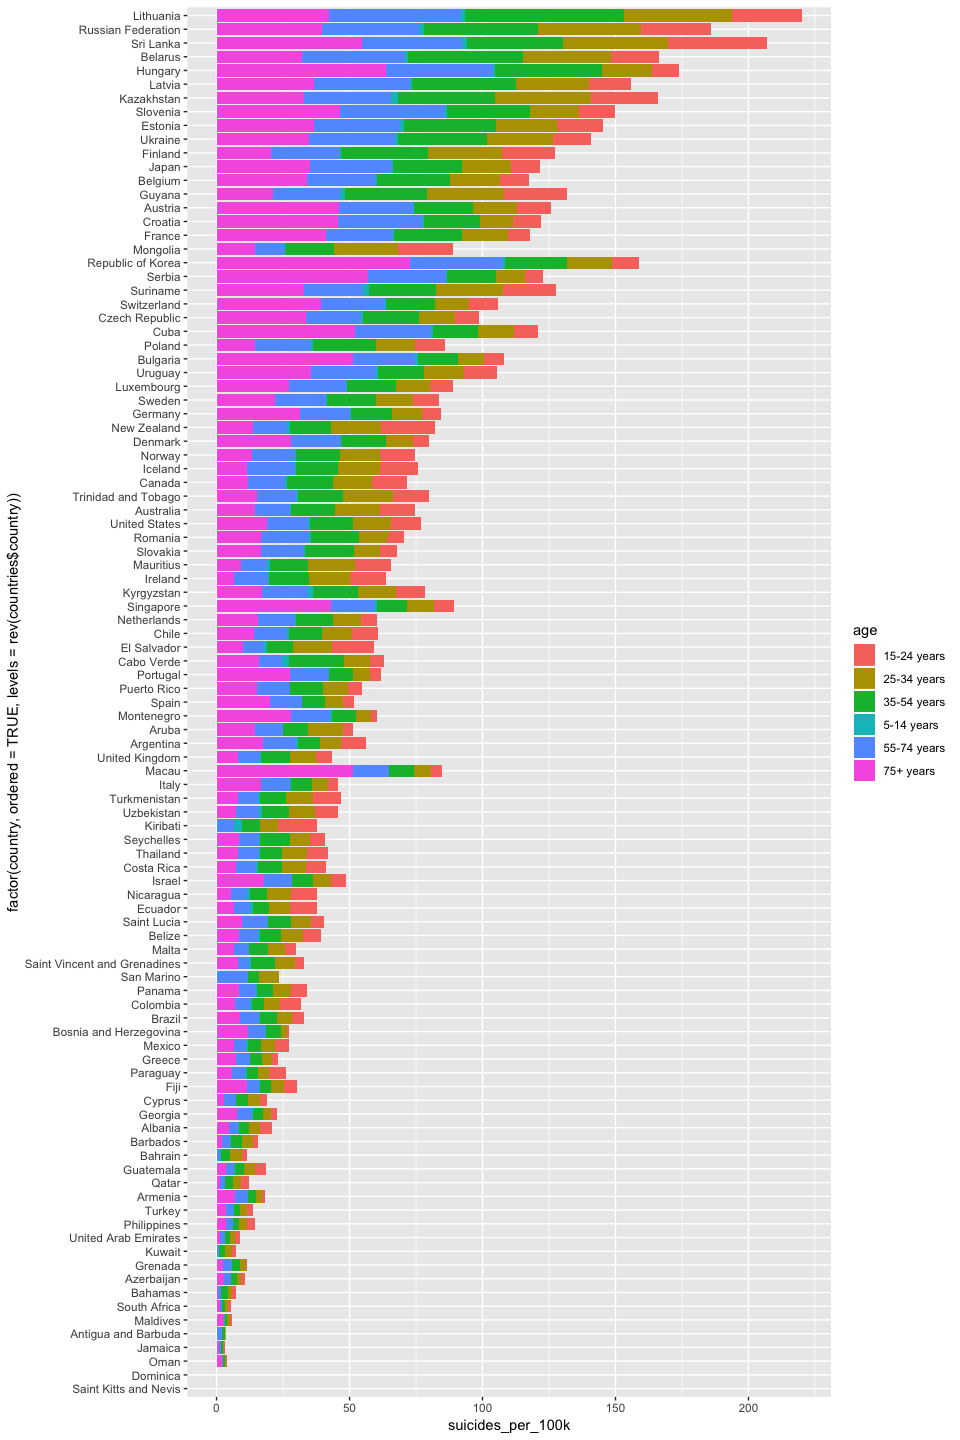
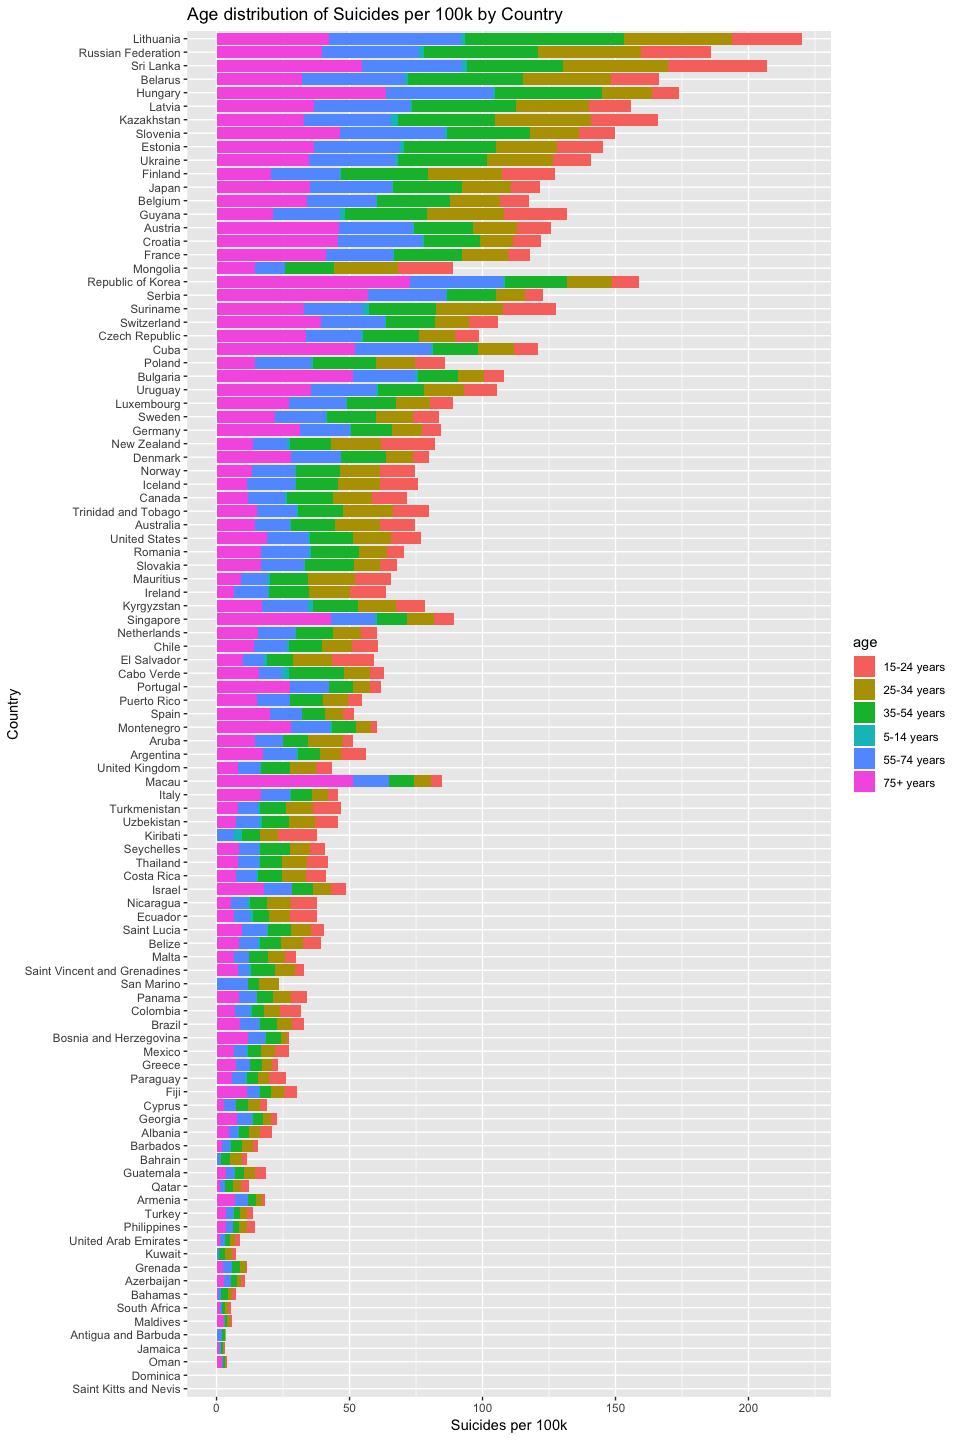
added linear regression analysis

diff --git a/tutorial.md b/tutorial.md
@@ -269,9 +269,60 @@ age_country <- df %>%
 age_country_plot <- age_country %>%
   ggplot(aes(x = factor(country, ordered=TRUE, levels=rev(countries$country)), y = suicides_per_100k, fill = age)) +
   geom_bar(stat="Identity") +
-  coord_flip()
+  coord_flip() +
+  labs(title="Age distribution of Suicides per 100k by Country", x="Country", y="Suicides per 100k")
 
 age_country_plot
 ```
 
 ![](tutorial_files/figure-markdown_github/age_country-1.png)
+
+Here, we can see that the distribution of suicides per 100k within each age group for each country is similar to that of the global comparison. However, we do note that there are countries such as Poland, Ireland, and Iceland, among others, that have a larger portion of suicides within the 25-54 and 54-74 age groups as opposed to the 75+ group.
+
+Regression Analysis
+-------------------
+
+Now that we have analyzed our data and the interaction of variables with one another, we can test our original question: Does GDP impact suicide rates? If so, to what extent?
+
+Here, our null hypothesis, *H*<sub>0</sub>, is that there is NO correlation between the GDP and suicide rates. Our alternate hypothesis, *H*<sub>1</sub>, is that there is a correlation between the two variables. In order to test this question, we will first construct a linear regression model of the two variables. To do this, we will implement the use of the lm function in r, which computes the regression for us!
+
+``` r
+head(gdp)
+```
+
+    ## # A tibble: 6 x 4
+    ##   gdp_per_capita suicides population suicides_per_100k
+    ##            <int>    <dbl>      <dbl>             <dbl>
+    ## 1            251       47    2822500              1.67
+    ## 2            291      556    4298100             12.9 
+    ## 3            313      510    4369202             11.7 
+    ## 4            345      560    4425784             12.7 
+    ## 5            357      106    3366600              3.15
+    ## 6            359      567    4473163             12.7
+
+``` r
+reg <- lm(suicides_per_100k~gdp_per_capita, data=gdp)
+
+summary(reg)
+```
+
+    ## 
+    ## Call:
+    ## lm(formula = suicides_per_100k ~ gdp_per_capita, data = gdp)
+    ## 
+    ## Residuals:
+    ##     Min      1Q  Median      3Q     Max 
+    ## -12.105  -6.514  -1.746   4.398  39.637 
+    ## 
+    ## Coefficients:
+    ##                 Estimate Std. Error t value Pr(>|t|)    
+    ## (Intercept)    1.132e+01  2.528e-01  44.759  < 2e-16 ***
+    ## gdp_per_capita 2.710e-05  9.825e-06   2.758  0.00586 ** 
+    ## ---
+    ## Signif. codes:  0 '***' 0.001 '**' 0.01 '*' 0.05 '.' 0.1 ' ' 1
+    ## 
+    ## Residual standard error: 8.851 on 2231 degrees of freedom
+    ## Multiple R-squared:  0.003399,   Adjusted R-squared:  0.002952 
+    ## F-statistic: 7.609 on 1 and 2231 DF,  p-value: 0.005856
+
+From this regression, we must first note that it is in the form of *y* = *a**x* + *b*, where *y* represents the suicides per 100k and *x* represents the GDP per capita. From our regression, we have an intercept *b* = 10.32 and *a* = 2.710 \* 10<sup>−5</sup>. This means that when our GDP increases by 1, the suicides per 100k increases by 2.710 \* 10<sup>−5</sup>. Here, our *r*<sup>2</sup> value is 0.003399, which is extremely small. This means that the linear relationship between GDP and suicides per 100k is extremely weak. This is backed up by our very small *p* value. *p* = 0.005856 &lt; 0.05, so we reject our null hypothesis of no correlation and accept our alternate hypotheis that there is a correlation.
